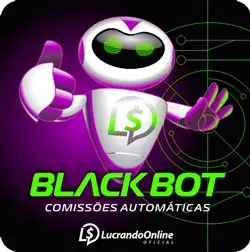
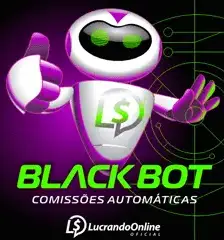
Add files via upload

diff --git a/index.html b/index.html
@@ -386,7 +386,7 @@
 
     <div class="containerzao">
       <div class="imagem"> <a href="usar-o-cupom.html" alt="OFERTA" title="COMPRE BARATO"><img
-            src="https://blackbot.desconto.click/blackbot.webp" alt="BlackBot" width="250" height="252"></a></div>
+            src="https://blackbot.desconto.click/blackbot.webp" alt="BlackBot" width="224" height="240"></a></div>
 
       <div class="descricao">
         <p>Oi, eu sou Kallel Karlos, mentor, consultor e produtor de empreendedorismo digital, com a mais avançada experiência em criação de negócios lucrativos e vendas pela internet.</p>
